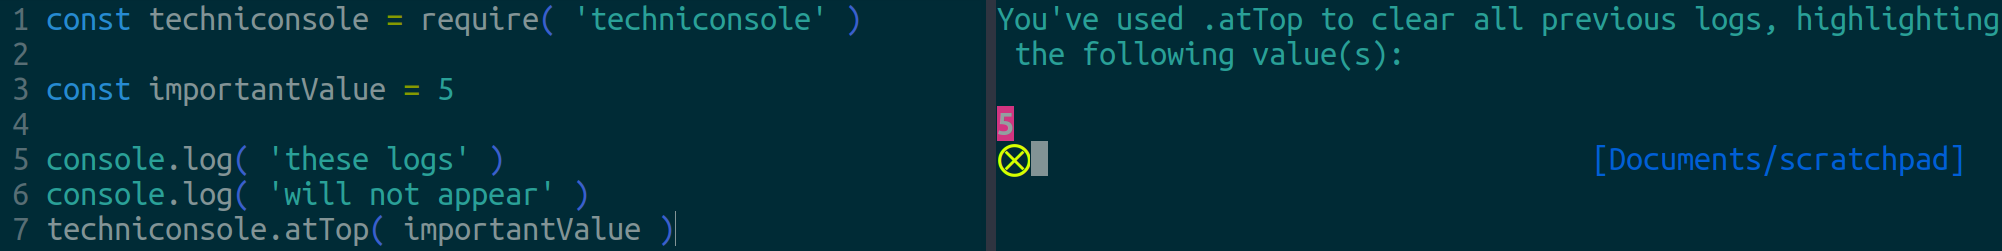
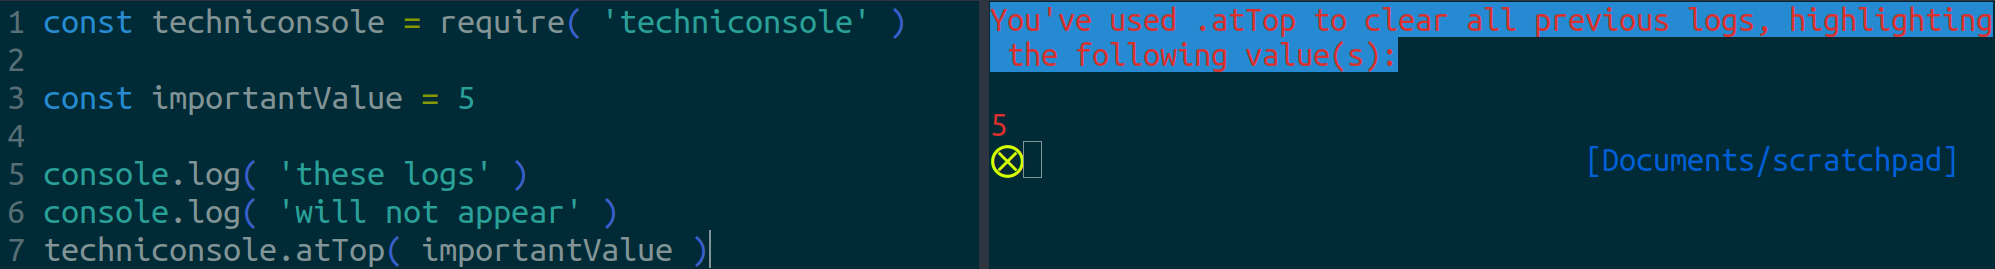
Slight rewording and screenshot improvements.

diff --git a/README.md b/README.md
@@ -31,13 +31,13 @@ I mean... _everything_ is wrong with `console.log`, right?
 
 It's particularly poor as a debugging tool, but it often tricks developers, especially new ones, into thinking it is, instead, a great one.
 
-But even if you're going to use it more to peek at a value and then delete the log, or to demonstrate a code technique or tool, rather than debugging), its plain-text approach can lead to some very difficult-to-parse output in the following ways:
+But even if you're going to use it more to peek at a value and then delete the log, or to demonstrate a code technique or tool, rather than debugging, its plain-text approach can lead to some very difficult-to-parse output in the following ways:
 
 1. It tends to blend in with the terminal's info-dump, making it hard to find what you're trying to log out. More like `console.needleInAHaystack`, amirite?
 2. If you care about the _other_ information in the terminal, well, every console.log makes that harder to find.
 3. Once you have a few more of them, you get a brand new parsing task: telling one logged value from another.
 
-A common solution to parsing your logging is to make sure each one is labeled in some way, which requires `console.log` usage like the following increasingly effective but verbose examples:
+A common solution to parsing your logging is to make sure each one is labeled in some way, which requires `console.log` usage like the following increasingly-effective-but-verbose examples:
 
 ```javascript
 console.log('The value of foo is: ', foo)
@@ -138,7 +138,7 @@ And you can always pass multiple values:
 <a name="on-variable-names-and-clarity"></a>
 # On Variable Names And Clarity
  
-Did you know that you can use any name for a library you _DW please_? It's _your_ variable, no one else's! (You probably already knew this; if you didn't, it's time for a TIL tweet!)
+Did you know that you can use any name for a library you _DW please_? It's _your_ variable, no one else's! (You probably already knew this; if you didn't… maybe it's time for a TIL tweet?)
 
 ![a screenshot of various names you could give the variable you create when you `require` Techniconsole](./assets/screenshots/require-names.png)
 
@@ -147,8 +147,7 @@ Did you know that we have _opinions_ about which you should use? We do! The foll
 1. `bob` - "Hahahahahaha, they named it something _silly_. Now... uh... what does it do again? How do I use this?" What you gain in a one-time laugh you lose ten-fold in usability.
 * `console` - There's an argument for this--to the point where we're constantly considering whether we should wrap the native console object so your `console.log` calls get converted to use this library--but ultimately, this library _isn't_ a drop-in replacement for `console`. Treating it as such can easily lead to a lack of clarity of where one starts and the other ends.
 * `tc` - A nice short variable name, but it makes it hard for anyone seeing your code to easily grok what it does. If you've ever come back to your own code after a while, you know it's easy to forget such things yourself! Plus... you really don't need short variable names if you're using tab-completion. Are you using tab-completion? You really should be using tab-completion!
-* `techniconsole` - An excellent name indeed! Whoever thought of it must be very, _very_ handsome.
-* `tonsole` - We might slightly prefer this one. It's catchy--the greatest tragedy of our time is that [an excellent library](https://www.npmjs.com/package/tonsole) already grabbed the package name--and it quickly reads as a `console` alternative.
+* `techniconsole` - An excellent name indeed! Whoever thought of it must be very, _very_ handsome. It reads as exactly what it is--a colorful console logger.
 
 Again though, it's _your_ variable!
 
@@ -169,4 +168,4 @@ Again though, it's _your_ variable!
 <a name="contributing"></a>
 # Contributing
 
-We don't currently have a formal system yet for accepting contributions, but we're open to suggestions on this project as well as assistance setting up a formal system.
+We don't currently have a formal system for accepting contributions, but we're open to suggestions on this project as well as assistance setting up a formal system.
